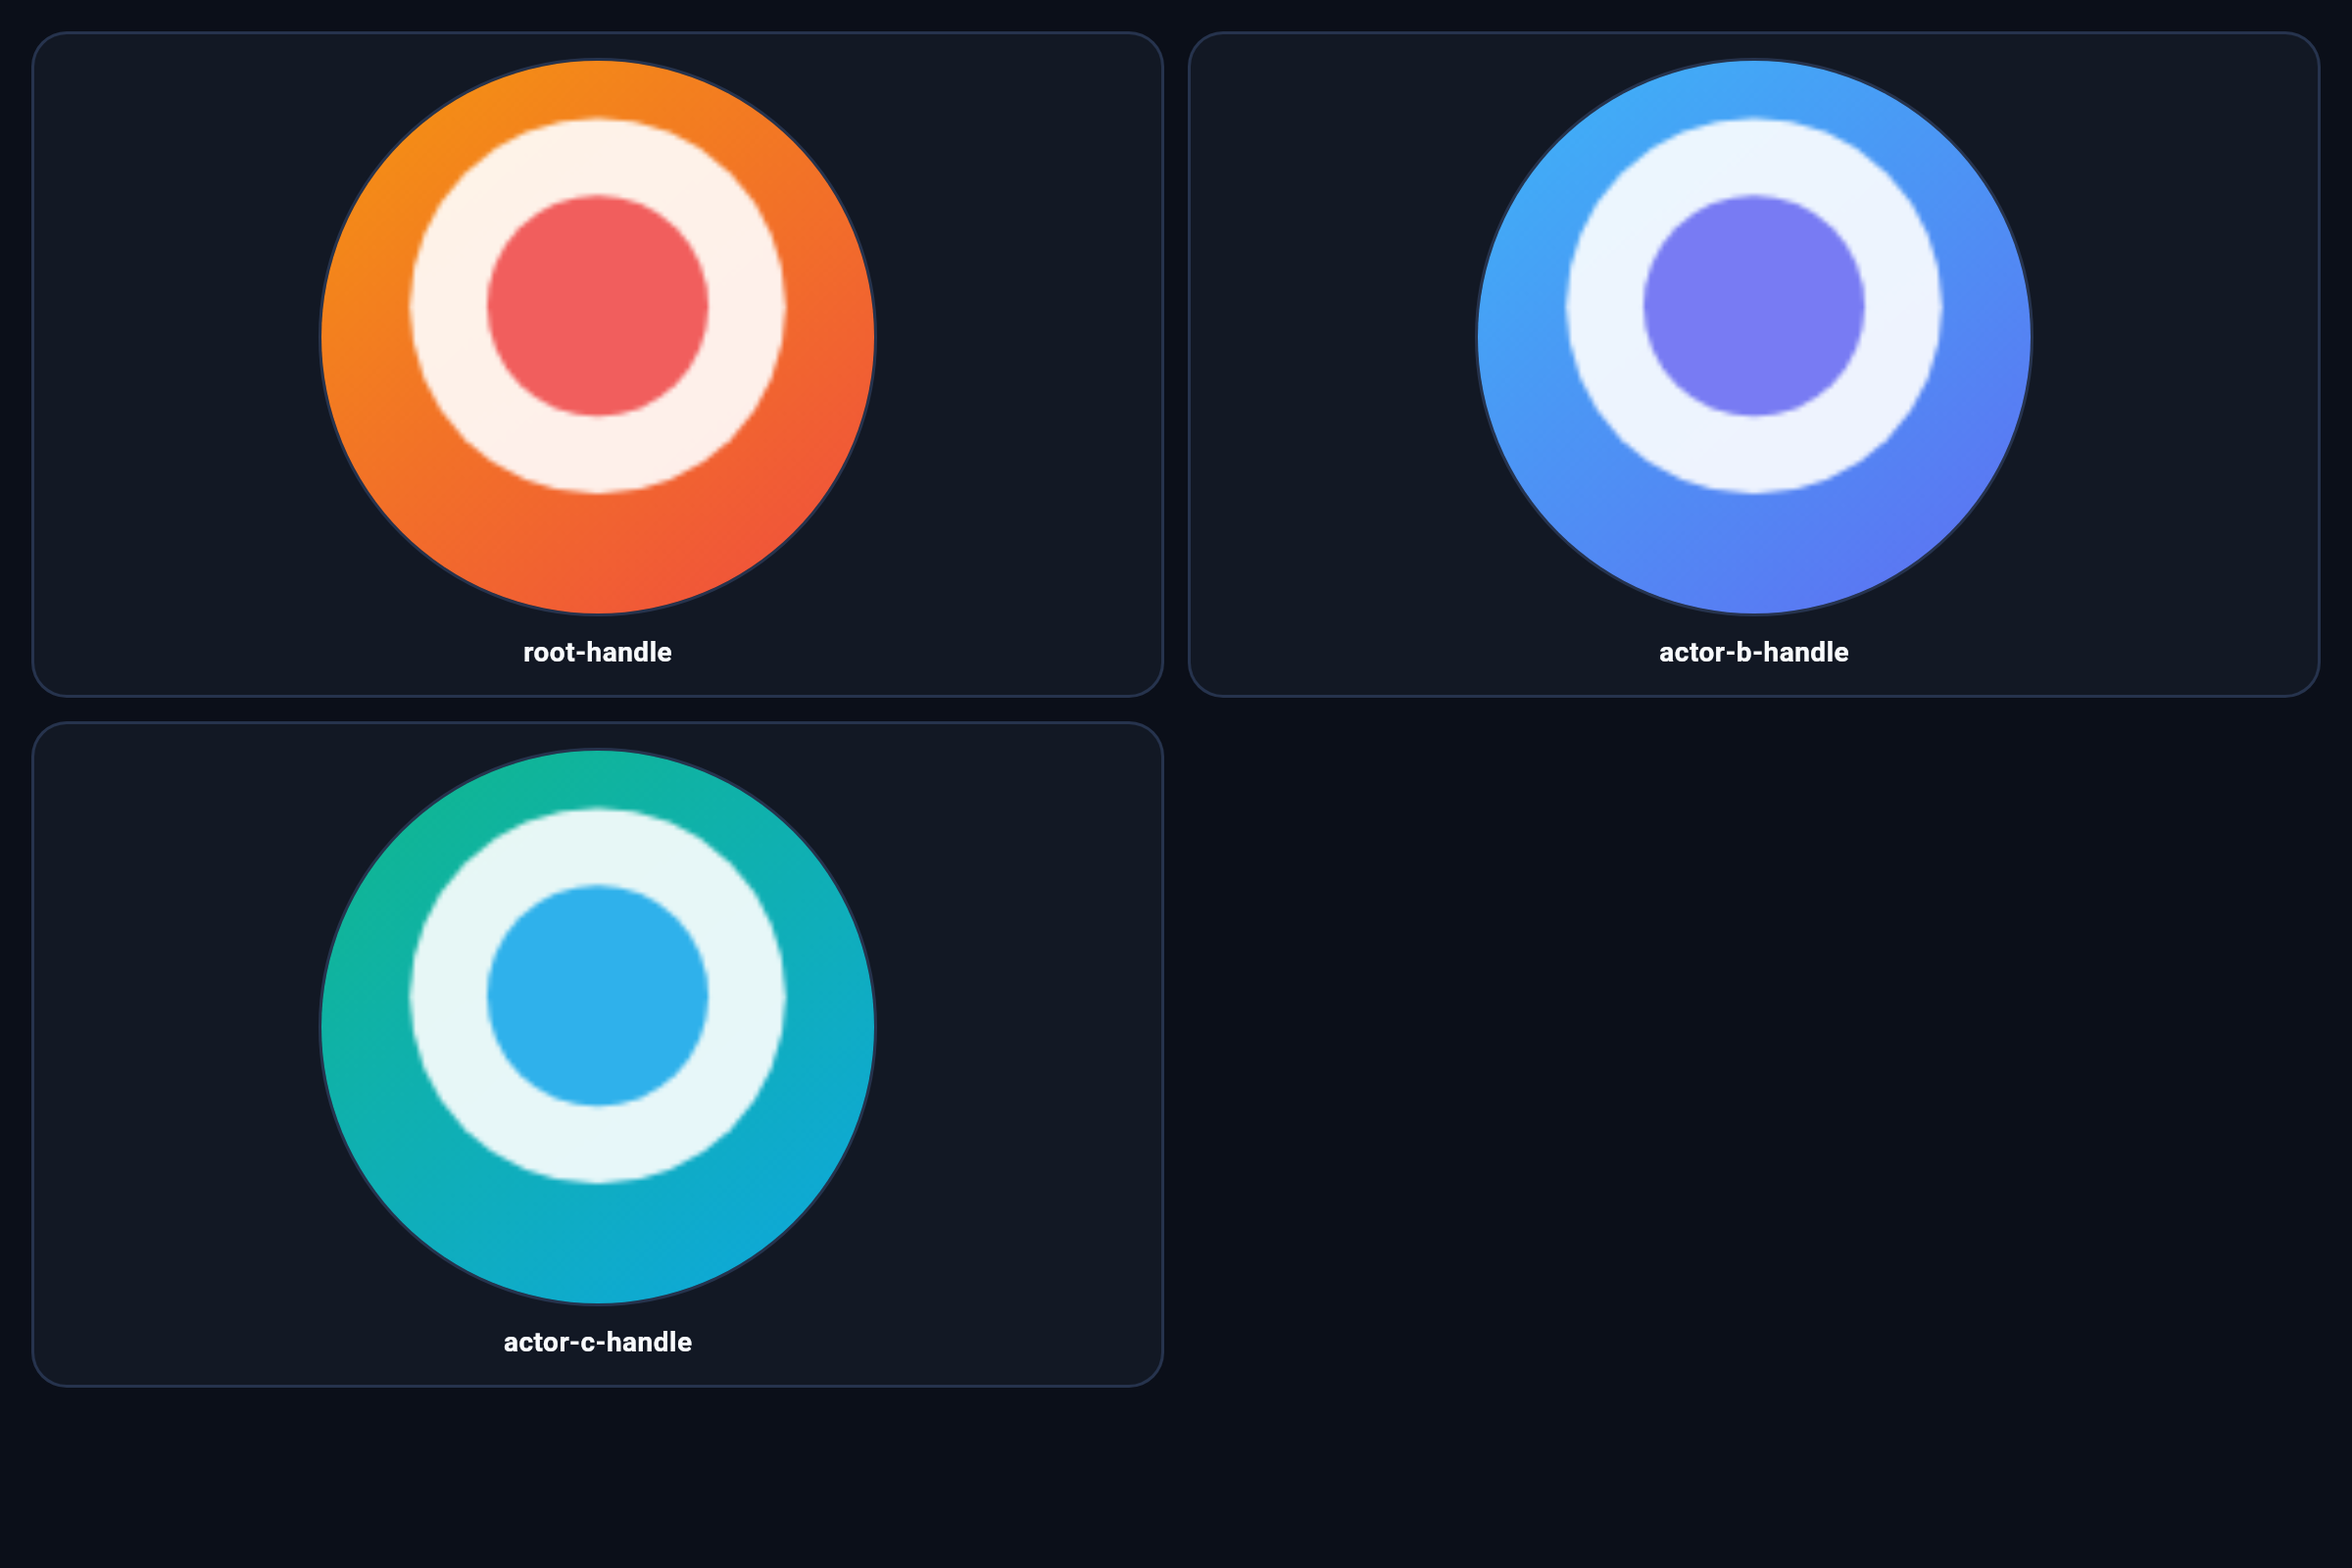
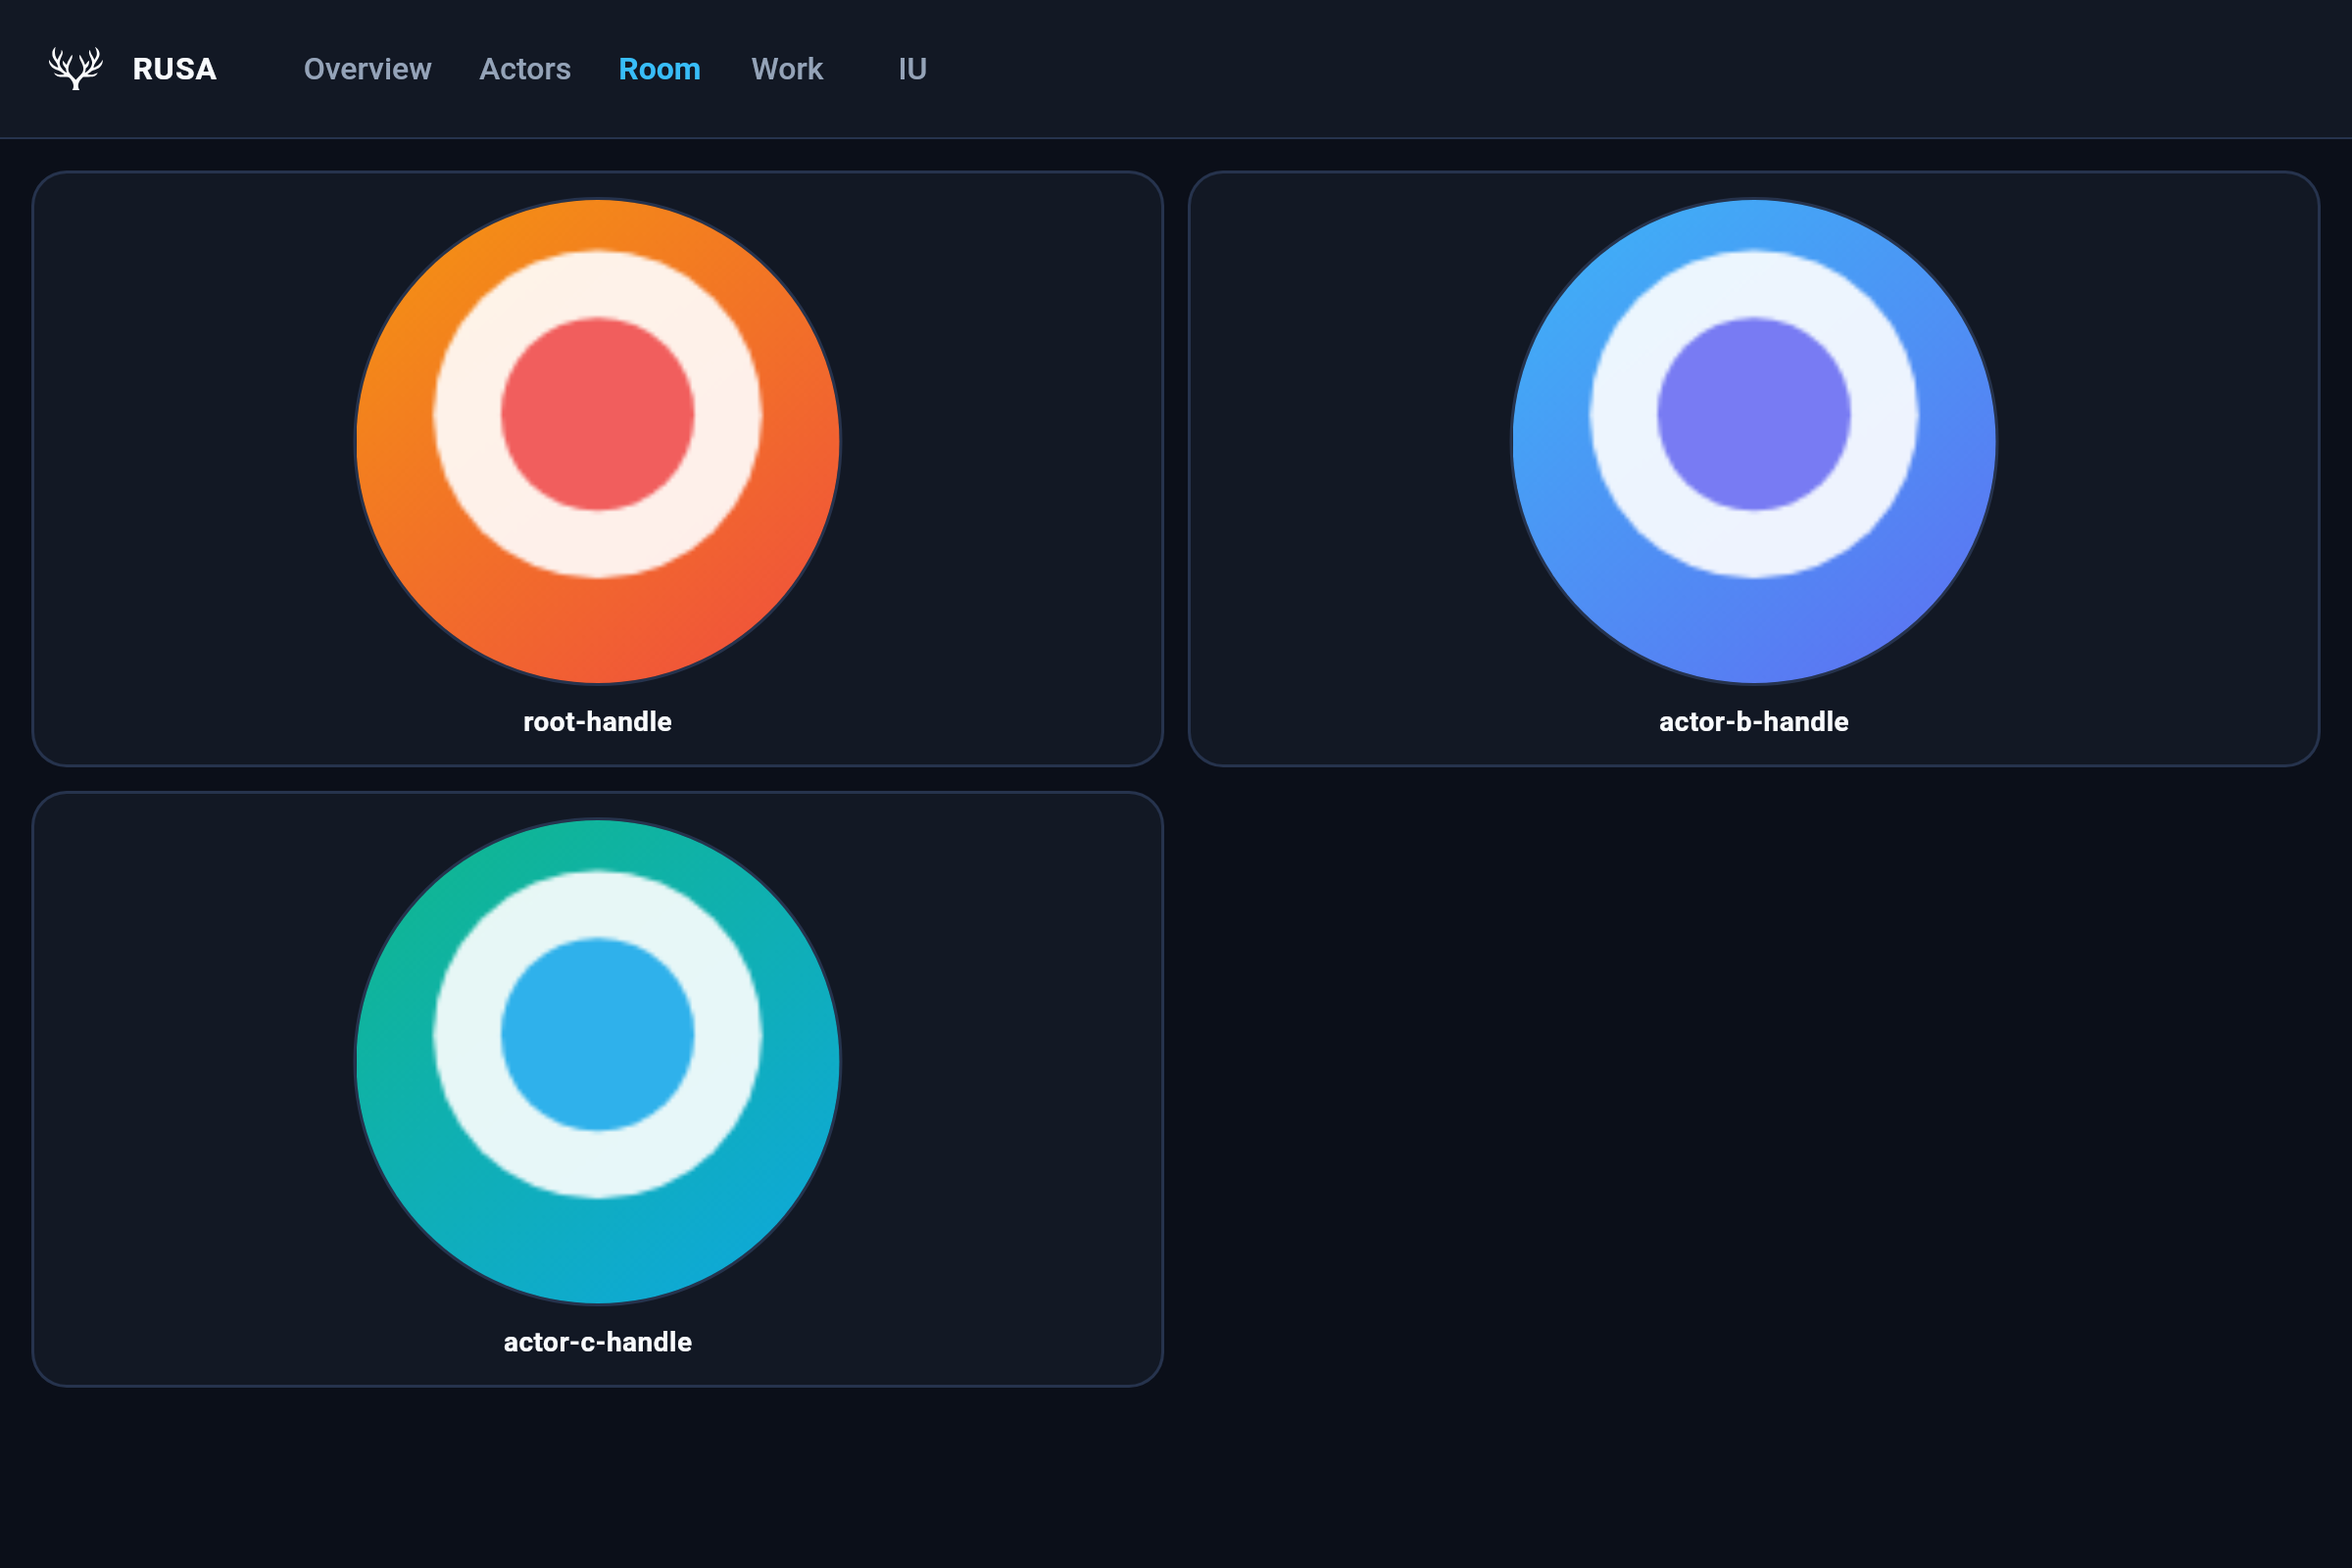
fix(dashboard): retain Room header at normal heights (#859)

diff --git a/packages/rusa/flutter_dashboard/test/dashboard_back_navigation_test.dart b/packages/rusa/flutter_dashboard/test/dashboard_back_navigation_test.dart
@@ -122,69 +122,89 @@ void main() {
   });
 
   group('browser/system back navigation', () {
+    testWidgets(
+      'an exceptionally short Room retains edge drawer and back exits (#859)',
+      (tester) async {
+        await _withDashboard(
+          tester,
+          initialUrl: '/overview',
+          size: const Size(411, 485),
+          body: (_) async {
+            expect(find.byType(MeshHeader), findsOneWidget);
+            await tester.tap(find.byIcon(Icons.menu));
+            await _settleDrawer(tester);
+            await tester.tap(find.byKey(const ValueKey('drawer-nav-chatRoom')));
+            await _settleDrawer(tester);
+            expect(find.byType(ChatRoomTab), findsOneWidget);
+            expect(
+              find.byType(MeshHeader),
+              findsNothing,
+              reason: 'the 411x485 cover screen uses the headerless Room',
+            );
+
+            await tester.dragFrom(const Offset(1, 200), const Offset(300, 0));
+            await _settleDrawer(tester);
+            expect(find.byType(MobileNavDrawer), findsOneWidget);
+            final scaffold = tester.state<ScaffoldState>(
+              find.byType(Scaffold).last,
+            );
+            expect(scaffold.isDrawerOpen, isTrue);
+
+            // Native back dismisses the gesture-opened drawer first.
+            expect(await tester.binding.handlePopRoute(), isTrue);
+            await _settleDrawer(tester);
+            expect(scaffold.isDrawerOpen, isFalse);
+            expect(find.byType(ChatRoomTab), findsOneWidget);
+
+            // Browser back restores the previous destination and its header;
+            // forward restores the short, headerless Room.
+            await _popTo(tester, '/overview');
+            expect(find.byType(OverviewTab), findsOneWidget);
+            expect(find.byType(MeshHeader), findsOneWidget);
+            await _popTo(tester, '/chat-room');
+            expect(find.byType(ChatRoomTab), findsOneWidget);
+            expect(find.byType(MeshHeader), findsNothing);
+
+            // The second exit actually reaches another destination.
+            await tester.dragFrom(const Offset(1, 200), const Offset(300, 0));
+            await _settleDrawer(tester);
+            await tester.tap(find.byKey(const ValueKey('drawer-nav-overview')));
+            await _settleDrawer(tester);
+            expect(find.byType(OverviewTab), findsOneWidget);
+            expect(find.byType(MeshHeader), findsOneWidget);
+          },
+        );
+      },
+    );
+
     for (final size in [const Size(390, 800), const Size(1200, 800)]) {
-      testWidgets(
-        'headerless Room retains edge drawer and back exits at ${size.width}px (#859)',
-        (tester) async {
-          await _withDashboard(
-            tester,
-            initialUrl: '/overview',
-            size: size,
-            body: (_) async {
-              expect(find.byType(MeshHeader), findsOneWidget);
-              if (size.width < 700) {
-                await tester.tap(find.byIcon(Icons.menu));
-                await _settleDrawer(tester);
-                await tester.tap(
-                  find.byKey(const ValueKey('drawer-nav-chatRoom')),
-                );
-                await _settleDrawer(tester);
-              } else {
-                await _tapNav(tester, 'Room');
-              }
-              expect(find.byType(ChatRoomTab), findsOneWidget);
-              expect(
-                find.byType(MeshHeader),
-                findsNothing,
-                reason: 'Room uses the full screen without a header',
-              );
-
-              await tester.dragFrom(const Offset(1, 200), const Offset(300, 0));
-              await _settleDrawer(tester);
-              expect(find.byType(MobileNavDrawer), findsOneWidget);
-              final scaffold = tester.state<ScaffoldState>(
-                find.byType(Scaffold).last,
-              );
-              expect(scaffold.isDrawerOpen, isTrue);
-
-              // Native back dismisses the gesture-opened drawer first.
-              expect(await tester.binding.handlePopRoute(), isTrue);
-              await _settleDrawer(tester);
-              expect(scaffold.isDrawerOpen, isFalse);
-              expect(find.byType(ChatRoomTab), findsOneWidget);
-
-              // Browser back restores the previous destination and its header;
-              // forward restores Room with no header again.
-              await _popTo(tester, '/overview');
-              expect(find.byType(OverviewTab), findsOneWidget);
-              expect(find.byType(MeshHeader), findsOneWidget);
-              await _popTo(tester, '/chat-room');
-              expect(find.byType(ChatRoomTab), findsOneWidget);
-              expect(find.byType(MeshHeader), findsNothing);
-
-              // The second exit actually reaches another destination.
-              await tester.dragFrom(const Offset(1, 200), const Offset(300, 0));
+      testWidgets('normal Room keeps its header at ${size.width}px (#859)', (
+        tester,
+      ) async {
+        await _withDashboard(
+          tester,
+          initialUrl: '/overview',
+          size: size,
+          body: (_) async {
+            if (size.width < 700) {
+              await tester.tap(find.byIcon(Icons.menu));
               await _settleDrawer(tester);
               await tester.tap(
-                find.byKey(const ValueKey('drawer-nav-overview')),
+                find.byKey(const ValueKey('drawer-nav-chatRoom')),
               );
               await _settleDrawer(tester);
-              expect(find.byType(OverviewTab), findsOneWidget);
-              expect(find.byType(MeshHeader), findsOneWidget);
-            },
-          );
-        },
-      );
+            } else {
+              await _tapNav(tester, 'Room');
+            }
+            expect(find.byType(ChatRoomTab), findsOneWidget);
+            expect(
+              find.byType(MeshHeader),
+              findsOneWidget,
+              reason: 'normal-height phones and desktops retain the header',
+            );
+          },
+        );
+      });
     }
 
     testWidgets(

diff --git a/packages/rusa/flutter_dashboard/lib/widgets/dashboard_body.dart b/packages/rusa/flutter_dashboard/lib/widgets/dashboard_body.dart
@@ -15,6 +15,10 @@ import 'mobile_nav_drawer.dart';
 import 'overview_tab.dart';
 import 'work_tab.dart';
 
+// The 411x485 cover-screen Room is the explicitly short layout; normal phone
+// and desktop heights keep their header.
+const _shortRoomMaxHeight = 500.0;
+
 /// The header + responsive master-detail body. Lives in its own (VM-safe) file
 /// — importing no web-only code — so the screenshot harness can render the real
 /// layout headlessly.
@@ -215,8 +219,10 @@ class _DashboardBodyState extends State<DashboardBody> {
     return LayoutBuilder(
       builder: (context, constraints) {
         _resolveLandingView(constraints);
-        if (constraints.maxWidth >= kNarrowBreakpoint &&
-            _view != DashboardView.chatRoom) {
+        final headerlessRoom =
+            _view == DashboardView.chatRoom &&
+            constraints.maxHeight <= _shortRoomMaxHeight;
+        if (constraints.maxWidth >= kNarrowBreakpoint && !headerlessRoom) {
           return _chrome();
         }
         // On a phone the header's leading slot carries the navigation: the
@@ -231,9 +237,9 @@ class _DashboardBodyState extends State<DashboardBody> {
             // A nested Scaffold of our own: the drawer has to hang off a
             // Scaffold, and this body is rendered directly — without main.dart's
             // — by the screenshot harness and the widget tests, so owning one
-            // keeps the drawer (and this file) VM-safe. Room uses this scaffold
-            // at every width: without its header, the left-edge drawer gesture
-            // is the navigation entry point on desktop as well as phones.
+            // keeps the drawer (and this file) VM-safe. An exceptionally short
+            // Room uses this scaffold at every width: without its header, the
+            // left-edge drawer gesture is its navigation entry point.
             return Scaffold(
               key: _scaffoldKey,
               backgroundColor: MeshColors.bgPrimary,
@@ -252,6 +258,7 @@ class _DashboardBodyState extends State<DashboardBody> {
                 onMenuTap: () => _scaffoldKey.currentState?.openDrawer(),
                 onBack: inActorDetail ? widget.store.clearSelection : null,
                 detailActorId: inActorDetail ? snap.data : null,
+                hideRoomHeader: headerlessRoom,
               ),
             );
           },
@@ -267,6 +274,7 @@ class _DashboardBodyState extends State<DashboardBody> {
     VoidCallback? onMenuTap,
     VoidCallback? onBack,
     String? detailActorId,
+    bool hideRoomHeader = false,
   }) {
     Widget header(ThreadDto? detail) {
       return MeshHeader(
@@ -304,7 +312,7 @@ class _DashboardBodyState extends State<DashboardBody> {
       color: MeshColors.bgPrimary,
       child: Column(
         children: [
-          if (_view != DashboardView.chatRoom) phoneHeader,
+          if (!hideRoomHeader) phoneHeader,
           Expanded(
             child: _view == DashboardView.overview
                 ? OverviewTab(store: widget.store, onSelectView: _selectView)

diff --git a/packages/rusa/flutter_dashboard/test/room_header_screenshot_test.dart b/packages/rusa/flutter_dashboard/test/room_header_screenshot_test.dart
@@ -11,6 +11,7 @@ import 'package:rusa_dashboard/store.dart';
 import 'package:rusa_dashboard/theme.dart';
 import 'package:rusa_dashboard/widgets/chat_room.dart';
 import 'package:rusa_dashboard/widgets/dashboard_body.dart';
+import 'package:rusa_dashboard/widgets/header.dart';
 
 import 'fakes.dart';
 import 'screenshot_support.dart';
@@ -62,6 +63,11 @@ void main() {
         // shows settled portraits rather than the silhouette mid-transition.
         await tester.pump(const Duration(milliseconds: 250));
         expect(find.byType(ChatRoomTab), findsOneWidget);
+        expect(
+          find.byType(MeshHeader),
+          entry.value.height <= 500 ? findsNothing : findsOneWidget,
+          reason: 'only the 411x485 cover capture is short enough to omit it',
+        );
         for (final id in _ids) {
           expect(find.byKey(ValueKey('chat-room-avatar-$id')), findsOneWidget);
         }

diff --git a/packages/rusa/flutter_dashboard/test/chat_room_small_screen_screenshot_test.dart b/packages/rusa/flutter_dashboard/test/chat_room_small_screen_screenshot_test.dart
@@ -4,8 +4,9 @@
 //   flutter test test/chat_room_small_screen_screenshot_test.dart
 //
 // It writes `flutter_dashboard/screenshots/chat_room_small_three_<state>.png`:
-// the real dashboard body, with the Room's header removed (#859), with three
-// actors, idle, recording and speaking. The viewport approximates a flip
+// the real dashboard body, with the Room's header removed on this short
+// cover-screen viewport (#859), with three actors, idle, recording and speaking.
+// The viewport approximates a flip
 // phone's cover screen: a 1080x1272 px panel at an assumed device pixel ratio
 // of 2.625 is about 411x485 logical px.
 
